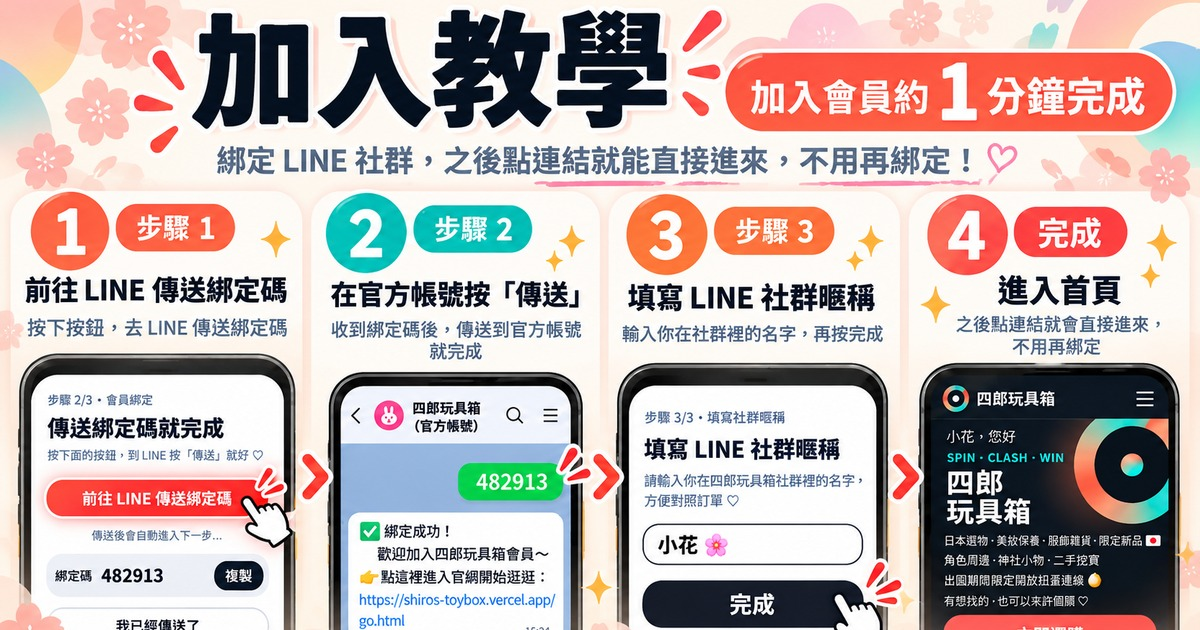
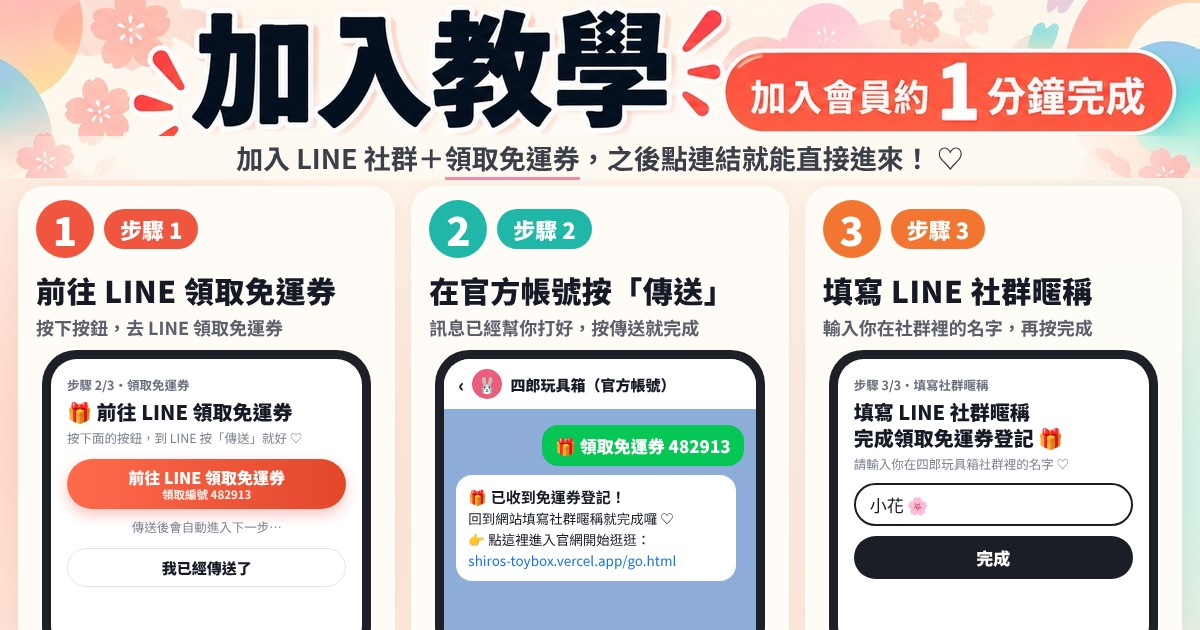
Add files via upload

diff --git a/go.html b/go.html
@@ -9,13 +9,13 @@
 <meta property="og:site_name" content="四郎玩具箱">
 <meta property="og:title" content="四郎玩具箱｜加入會員約 1 分鐘完成">
 <meta property="og:description" content="點連結照步驟綁定，加入會員送免運券 ♡">
-<meta property="og:image" content="https://shiros-toybox.vercel.app/og-join.jpg?v=2">
+<meta property="og:image" content="https://shiros-toybox.vercel.app/og-join.jpg?v=3">
 <meta property="og:image:width" content="1200">
 <meta property="og:image:height" content="630">
 <meta name="twitter:card" content="summary_large_image">
 <meta name="twitter:title" content="四郎玩具箱｜加入會員約 1 分鐘完成">
 <meta name="twitter:description" content="加入會員送免運券，邀請好友雙方各得 1 張 ♡">
-<meta name="twitter:image" content="https://shiros-toybox.vercel.app/og-join.jpg?v=2">
+<meta name="twitter:image" content="https://shiros-toybox.vercel.app/og-join.jpg?v=3">
 <script>
 // 社群公告用的連結是 go.html?from=group：把這個記號一起帶進網站，新客人就會跳過「步驟 1 加入社群」
 var u = 'https://liff.line.me/2011208900-FRP3QI9Q' + (/[?&]from=group\b/.test(location.search) ? '?from=group' : '');
